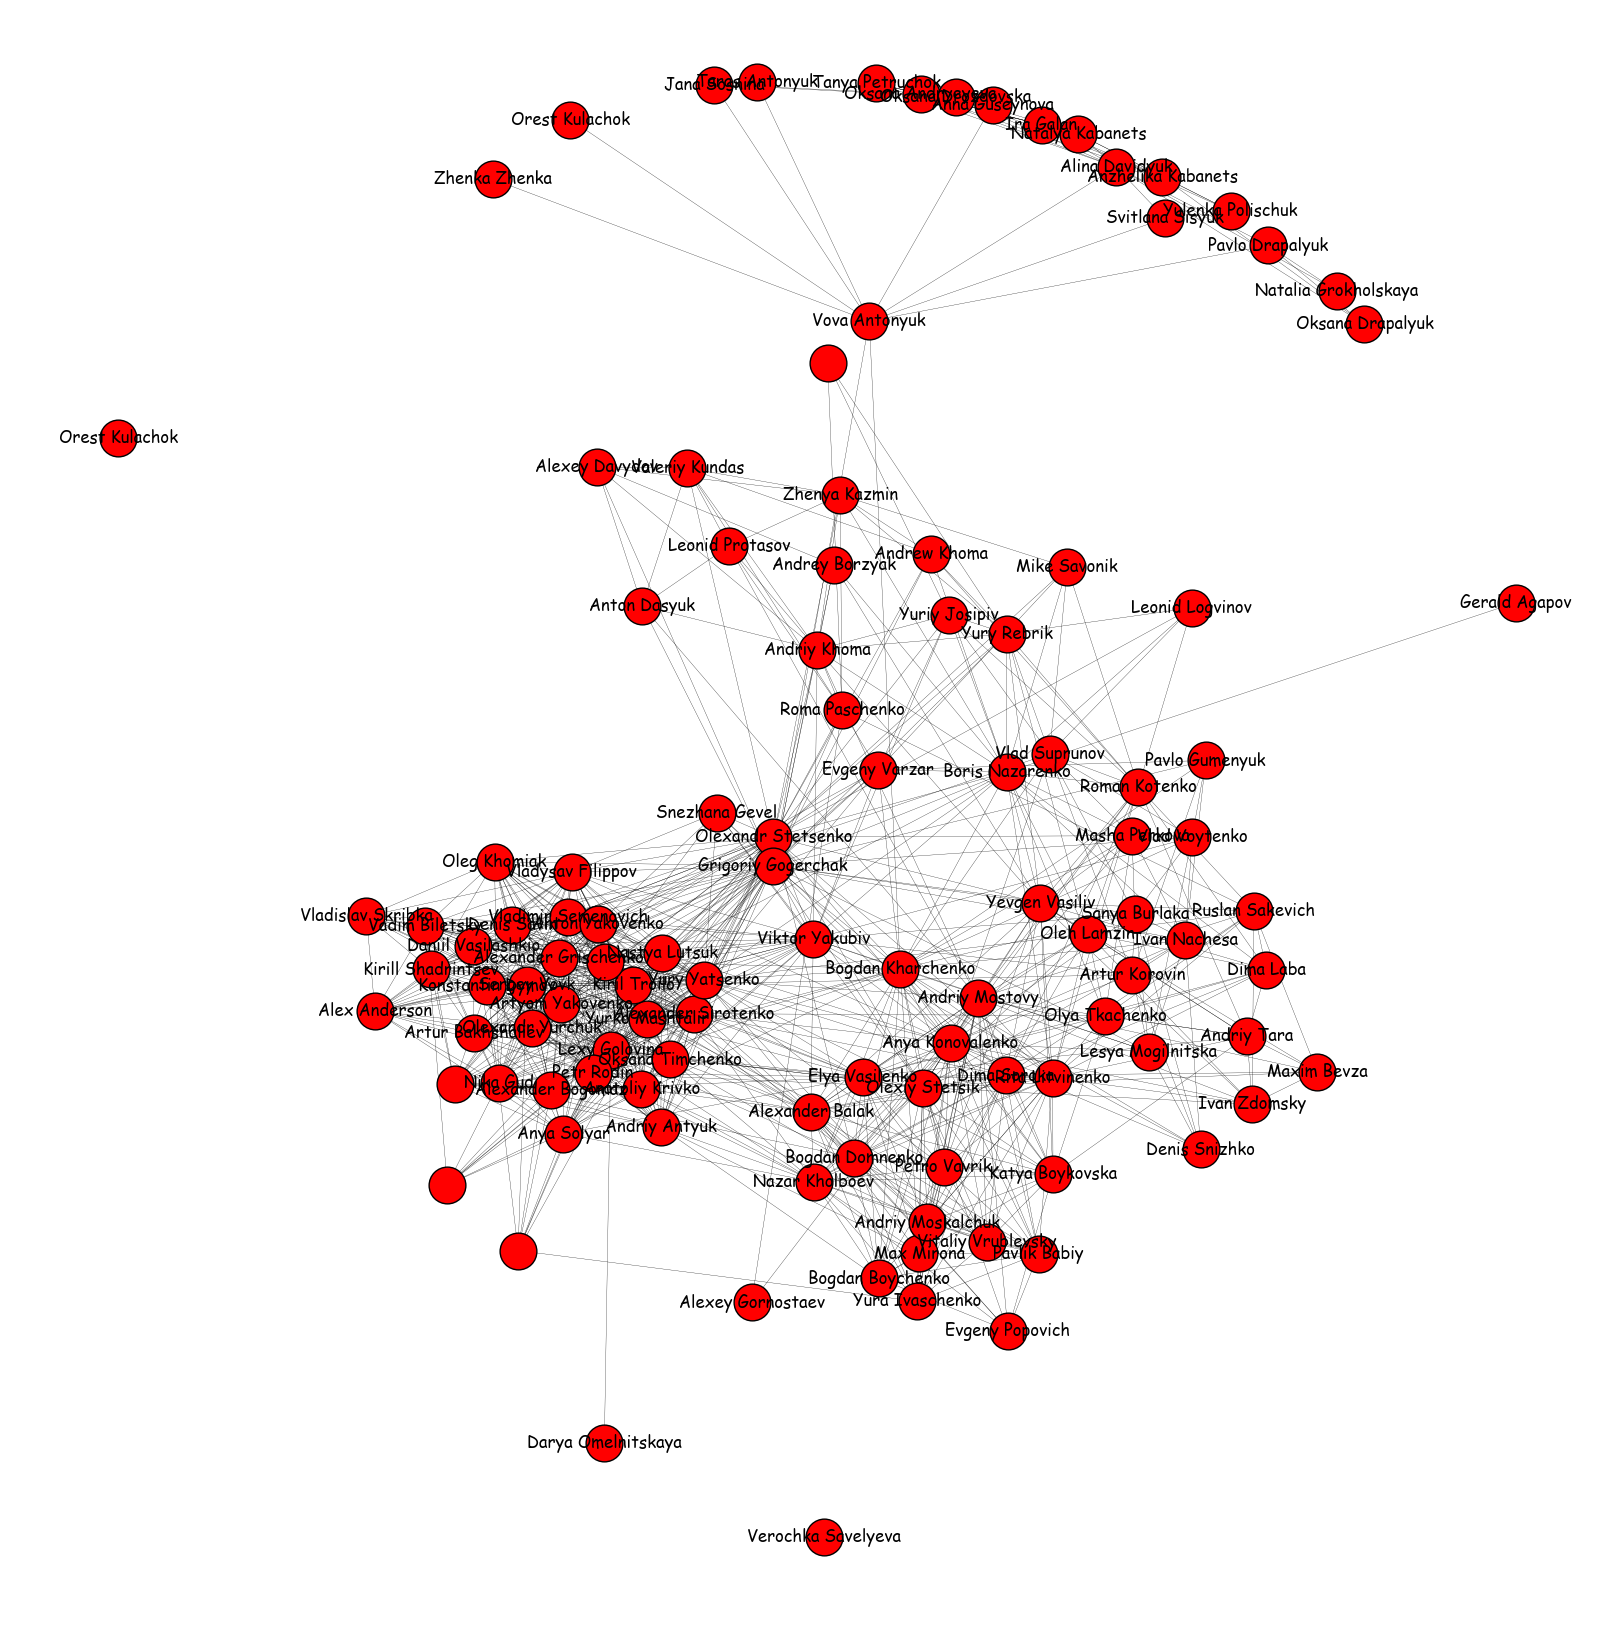
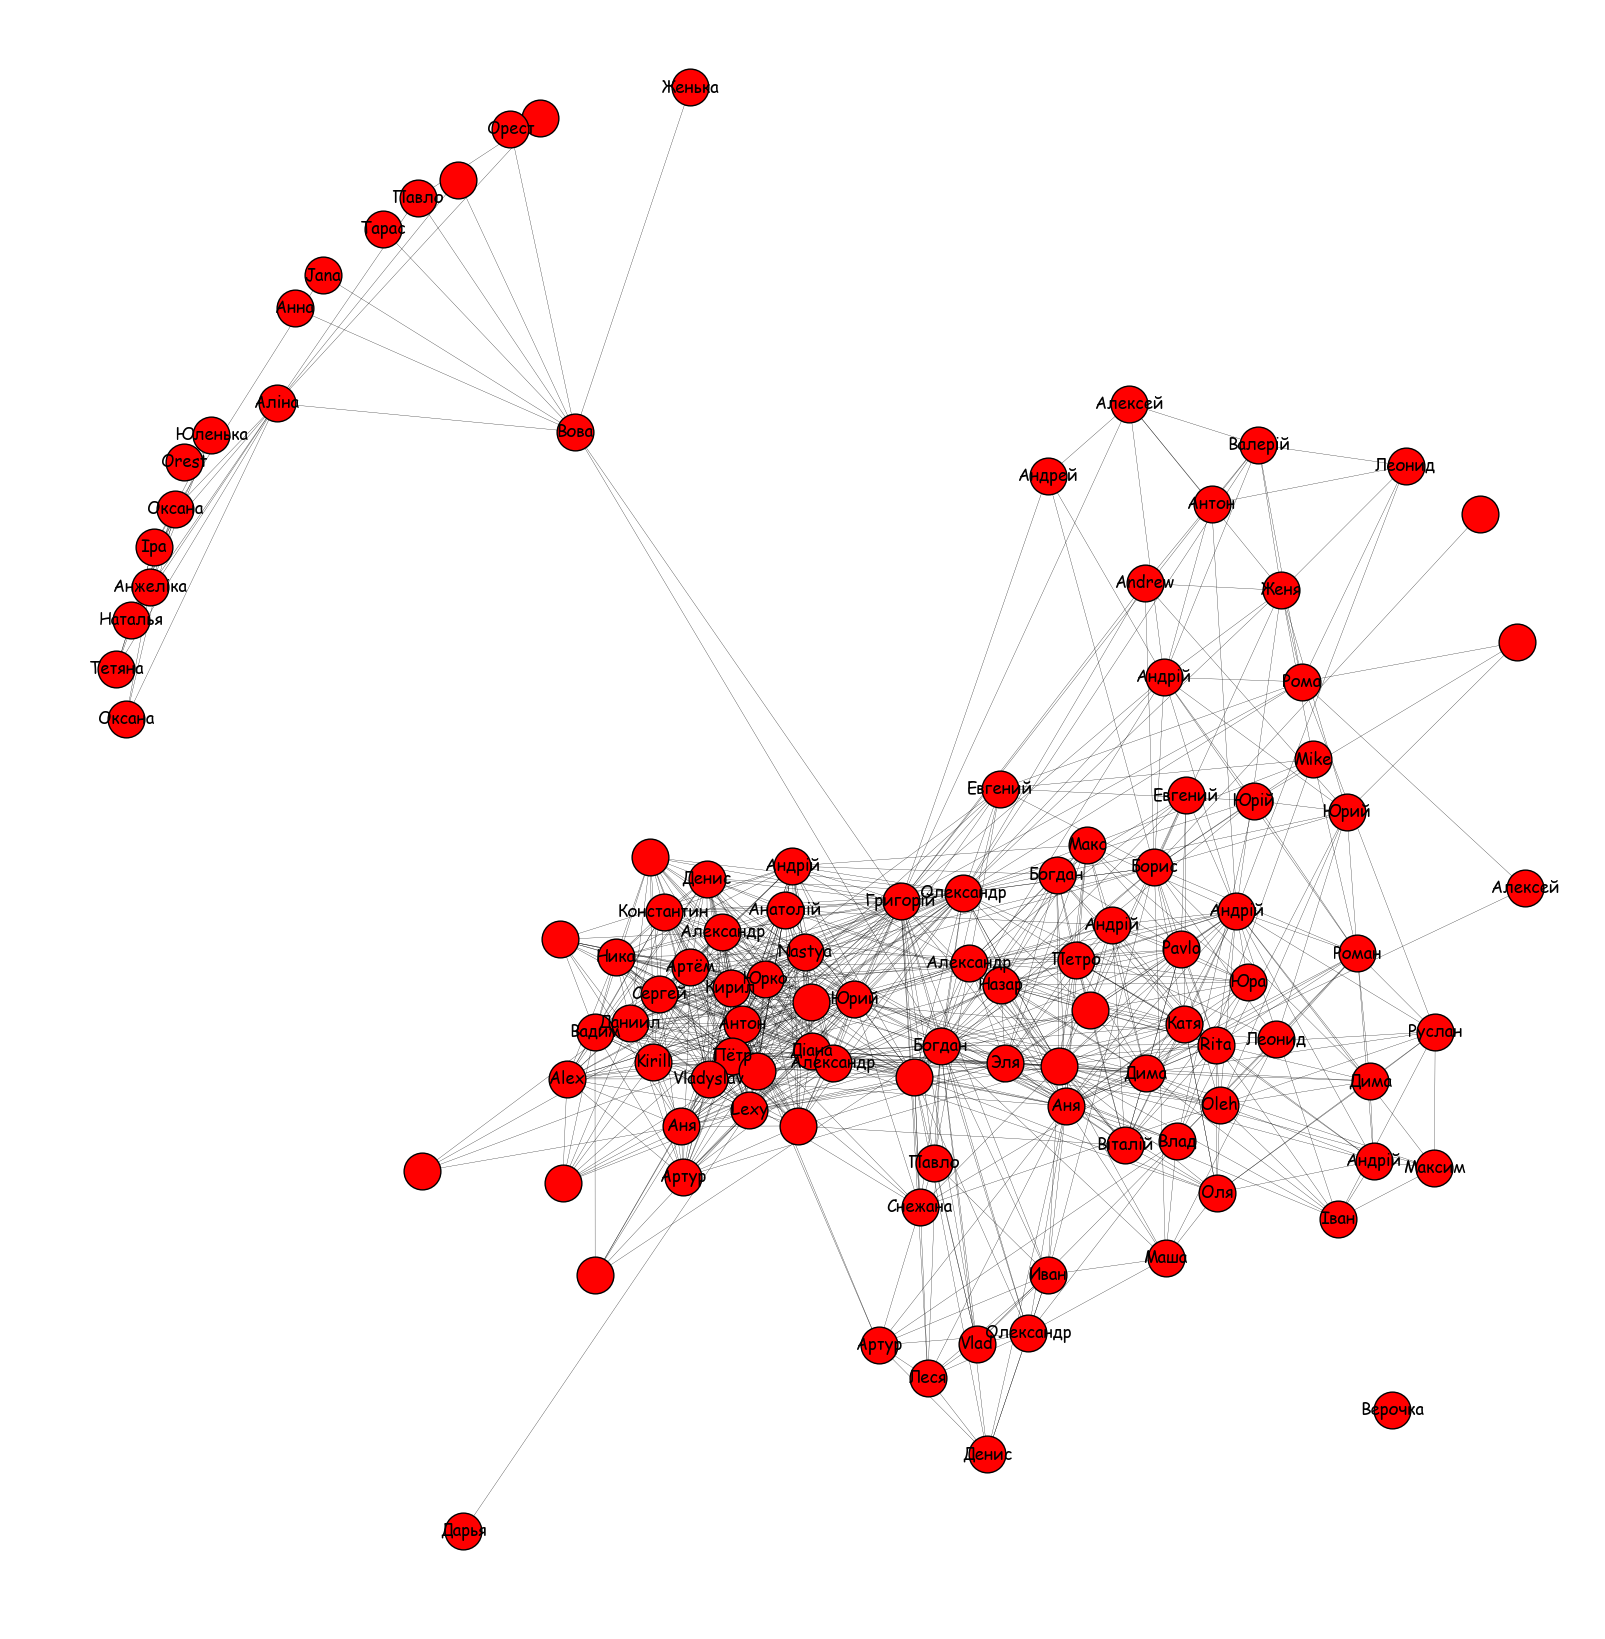
Fix bad cyrrylic displaying on the friends graph.

diff --git a/vkapp/vkapi.py b/vkapp/vkapi.py
@@ -22,7 +22,7 @@ def get_auth_params_by_url(redirected_url):
 
 def get_api(access_token):
     session = vk.Session(access_token=access_token)
-    return vk.API(session)
+    return vk.API(session, lang='en')
 
 
 lock = Lock()
